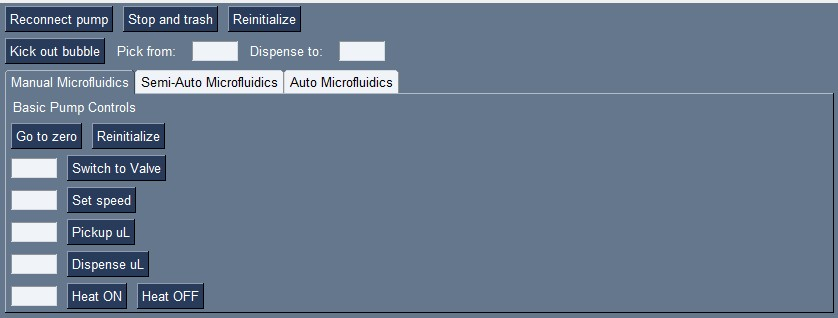
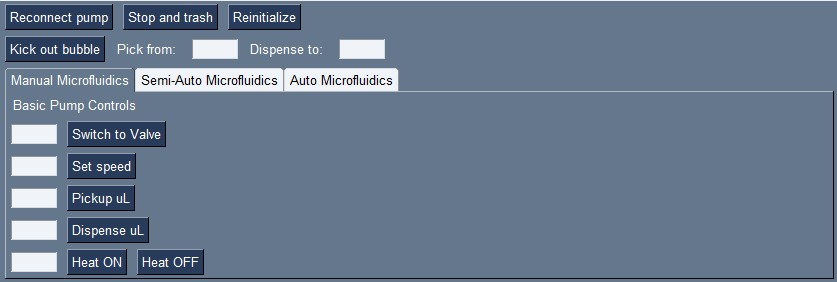
microflu manual

Changed region(s): [[0.0, 0.0, 1.0, 0.9929], [0.4038, 0.1135, 0.4659, 0.1418]]

diff --git a/SenSwiss2023/GUI/layout.py b/SenSwiss2023/GUI/layout.py
@@ -40,10 +40,6 @@ def create_layout(logo_size: typing.Tuple[int, int], camera_img_size: typing.Tup
             sg.Text("Basic Pump Controls", key="basicPumpControls"),
         ],
         [
-            sg.Button("Go to zero", key="goToZero"),
-            sg.Button("Reinitialize", key="reinit"),
-        ],
-        [
             sg.Input("", key='inputChosenValve', size=(6, 1)),
             sg.Button("Switch to Valve", key="switchValve"),
         ],

diff --git a/SenSwiss2023/GUI/README.md b/SenSwiss2023/GUI/README.md
@@ -63,15 +63,38 @@ The microfluidic section contains all buttons to control the integrated pump sys
 
 The microfluidic system is highly customizable and allows for the choice of three modalities: **Manual**, **Semi-Automatic**, **Automatic**.
 
+In all modes, the following buttons are available:
+- `Reconnect pump`: reconnects the pump to the computer if it gets disconnected during the experiment
+- `Stop and trash`: stop the current pump command and trash the remaining volume in the trash reservoir (valve 1)
+- `Reinitialize`: reinitialize the pump system, i.e. set all valves to the initial position (valve 1)
+- `Kick out bubble`: send a short series of pulses to the pump to kick out any bubble in the microfluidic system, the user has to specify the input and output valves and then the program send preprogrammed instructions to the pump.
+
 #### Manual
 ![Microflu_manual](layout_figures/Microflu_manual.jpg)
 
-Every command can be added manually, by specifying the valve number, the action (Pick/Dispense), the volume and the the flowrate. The user can then click on the Add command button to add the command to the list of commands. The list of commands can be saved by clicking on the Save protocol button. The protocol will be saved in the protocols folder as a *.csv* file. The user can name the protocol file via the adjacent input field, in any case, the protocol will be saved. 
+Every command has to be defined manually one at a time. The possible commands are the following:
+- `Switch to valve`: the pump select the valve according to the user input 
+- `Set speed`: the user defines the flowrate of the pump in $\mu L$/min
+- `Pickup uL`: the user defines the volume to pick up (in $\mu L$) from the chosen valve
+- `Dispense uL`: the user defines the volume to dispense (in $\mu L$L) from the chosen valve
+- `Heat ON`: the user defines the temperature of the heating plate (in °C) and sets the heating plate ON
+- `Heat OFF`: the user sets the heating plate OFF
 
-#### Semi-Automatic
+#### Semi-automatic
 ![Microflu_semiauto](layout_figures/Microflu_semiauto.jpg)
 
+The semi-automatic mode allows the user to define a protocol of commands that will be executed sequentially. The user can add new command lines by clicking on the `+` button, and then specify the different inputs as follows:
+- `Port`: the user defines the valve to use
+- `Action`: the user selects the action to execute from the drop-down list (Pick or Dispense)
+- `Volume`: the user defines the volume to pick or dispense (in $\mu L$)
+- `Speed`: the user defines the flowrate of the pump (in $\mu L$/min)
+- `Title`: the user specify a title for the command line (optional), this title will be added to the data file of the experiment at the corresponding timepoint when the sample is dispensed into the chamber (the program automatically computes the required time given the volume and the flowrate and the fixed tubing length)
+- `Wait`: add a waiting step of a user specified duration (in miliseconds) before executing the next command line
+- `copy`: the copy checkbox allows to select the line to copy, the user can then paste the line by clicking on the `Copy commands` button
+- `Delete`: the user can delete the line by clicking on the `Delete` button
 
+The user can then select the command to add from the drop-down list. The user can then set the parameters of the command via the input fields. For example, if the user wants to pick up 10 $\mu L$ from valve 1 at a flowrate of 1000 $\mu L$/min, the user has to select the command `Pickup uL`, set the valve to 1
+, the volume and the the flowrate. The user can then click on the Add command button to add the command to the list of commands. The list of commands can be saved by clicking on the Save protocol button. The protocol will be saved in the protocols folder as a *.csv* file. The user can name the protocol file via the adjacent input field, in any case, the protocol will be saved. 
 #### Automatic
 ![Microflu_auto](layout_figures/Microflu_auto.jpg)
 The user can load a protocol by clicking on the Load protocol button. The user can then select the protocol to load from the list of protocols. The protocol will be loaded and displayed in the list of commands. The user can then edit the protocol and save it under a different name.
